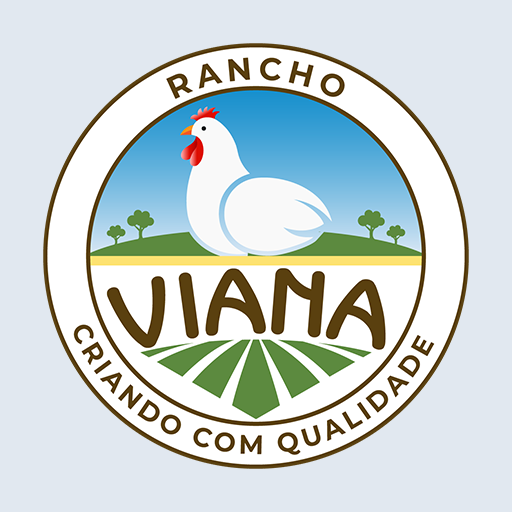
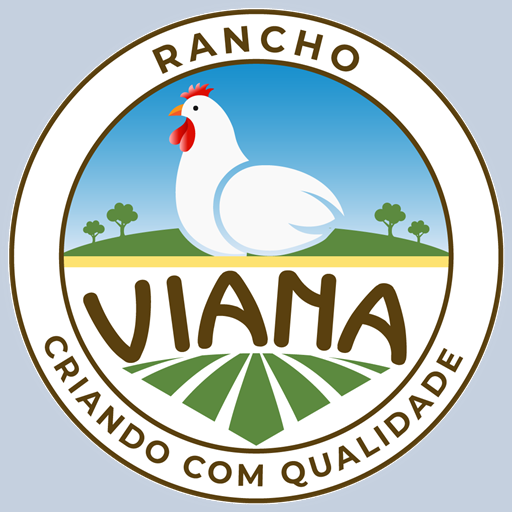
Add files via upload

diff --git a/style.css b/style.css
@@ -676,7 +676,7 @@
             height: 32px;
             background: var(--surface-2);
             border: 1px solid var(--line);
-            margin: 10px auto;
+            margin: 5px auto;
             width: 100%; /* Fica menorzinho no centro */
             border-radius: 11px;
             overflow: hidden;